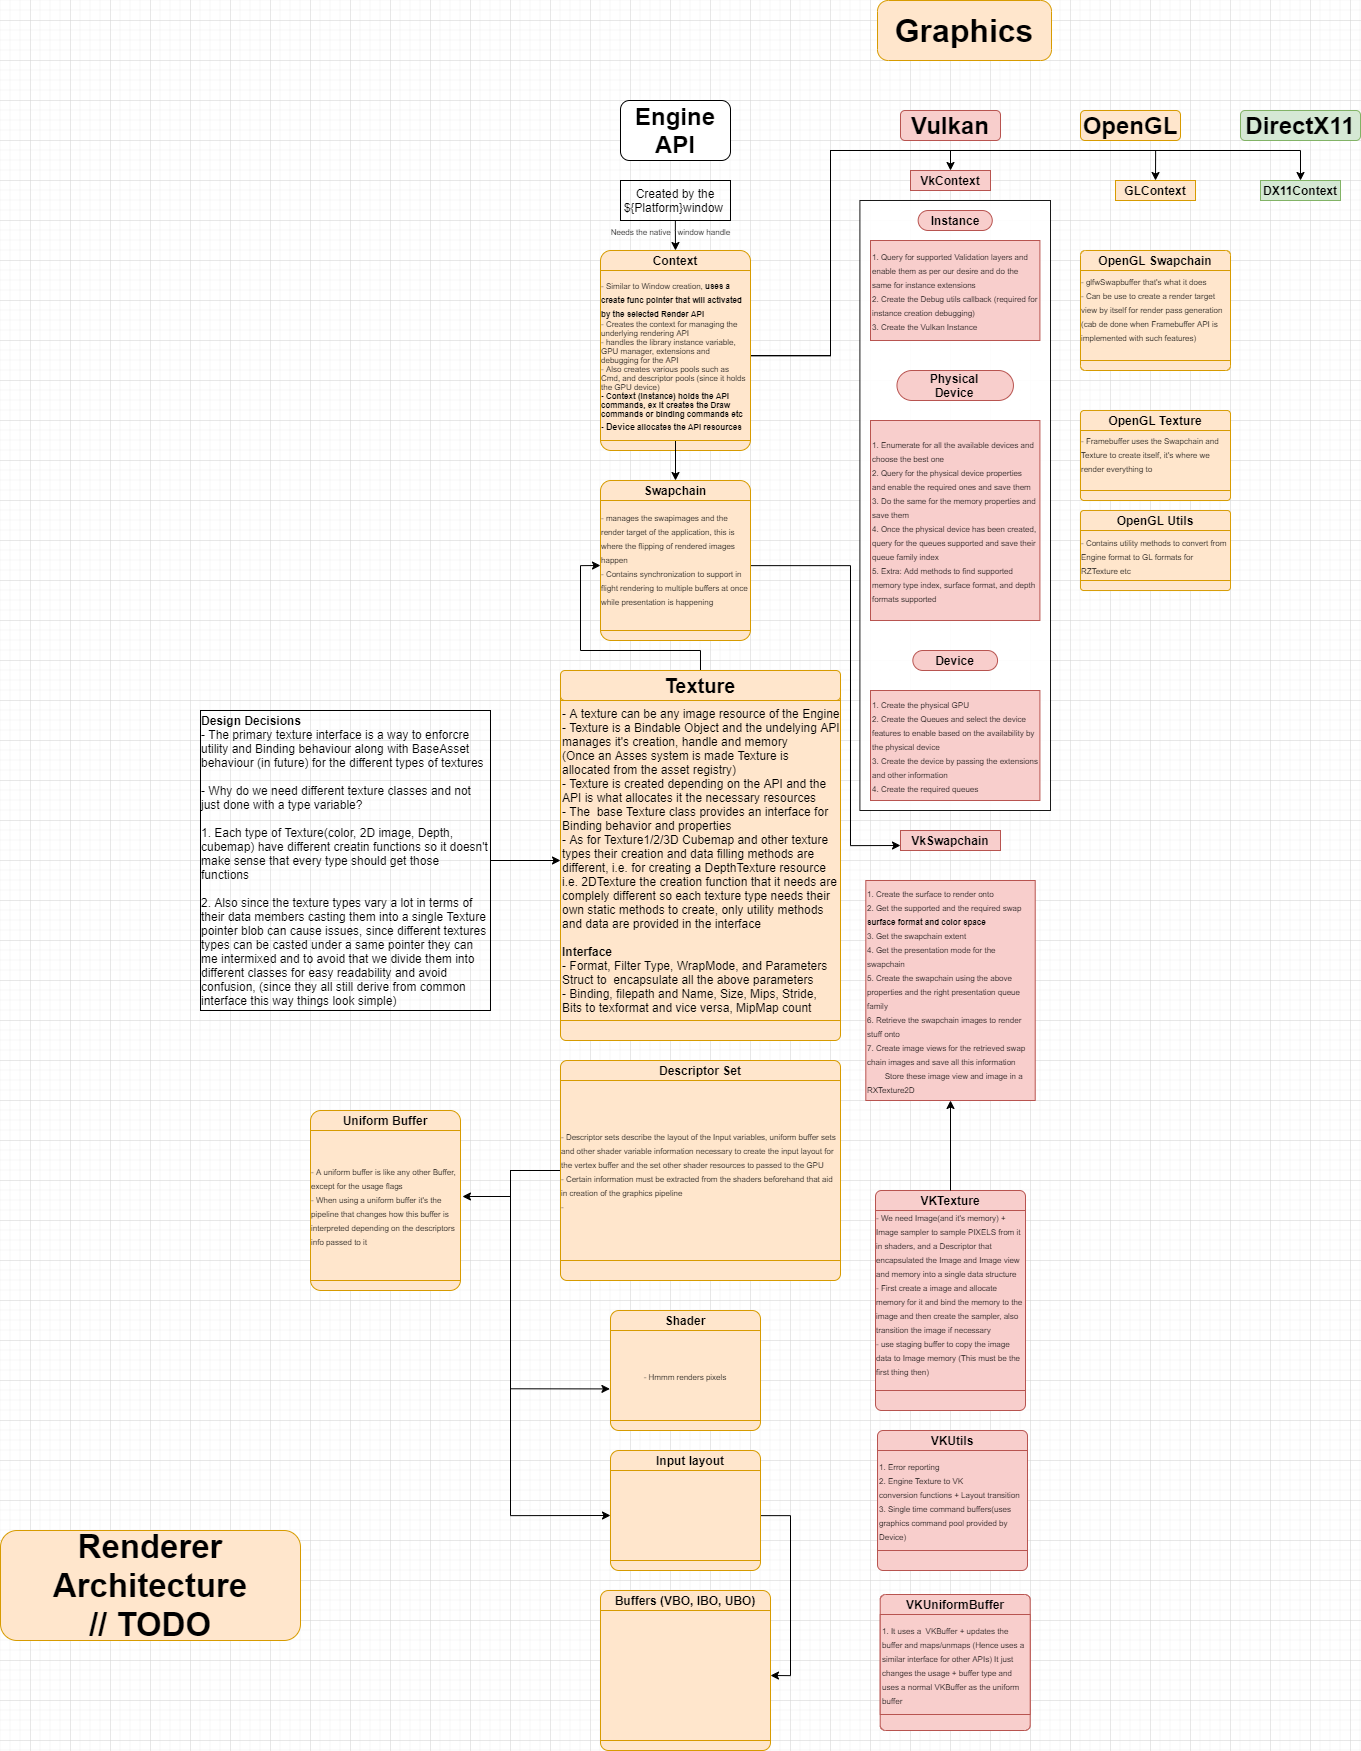
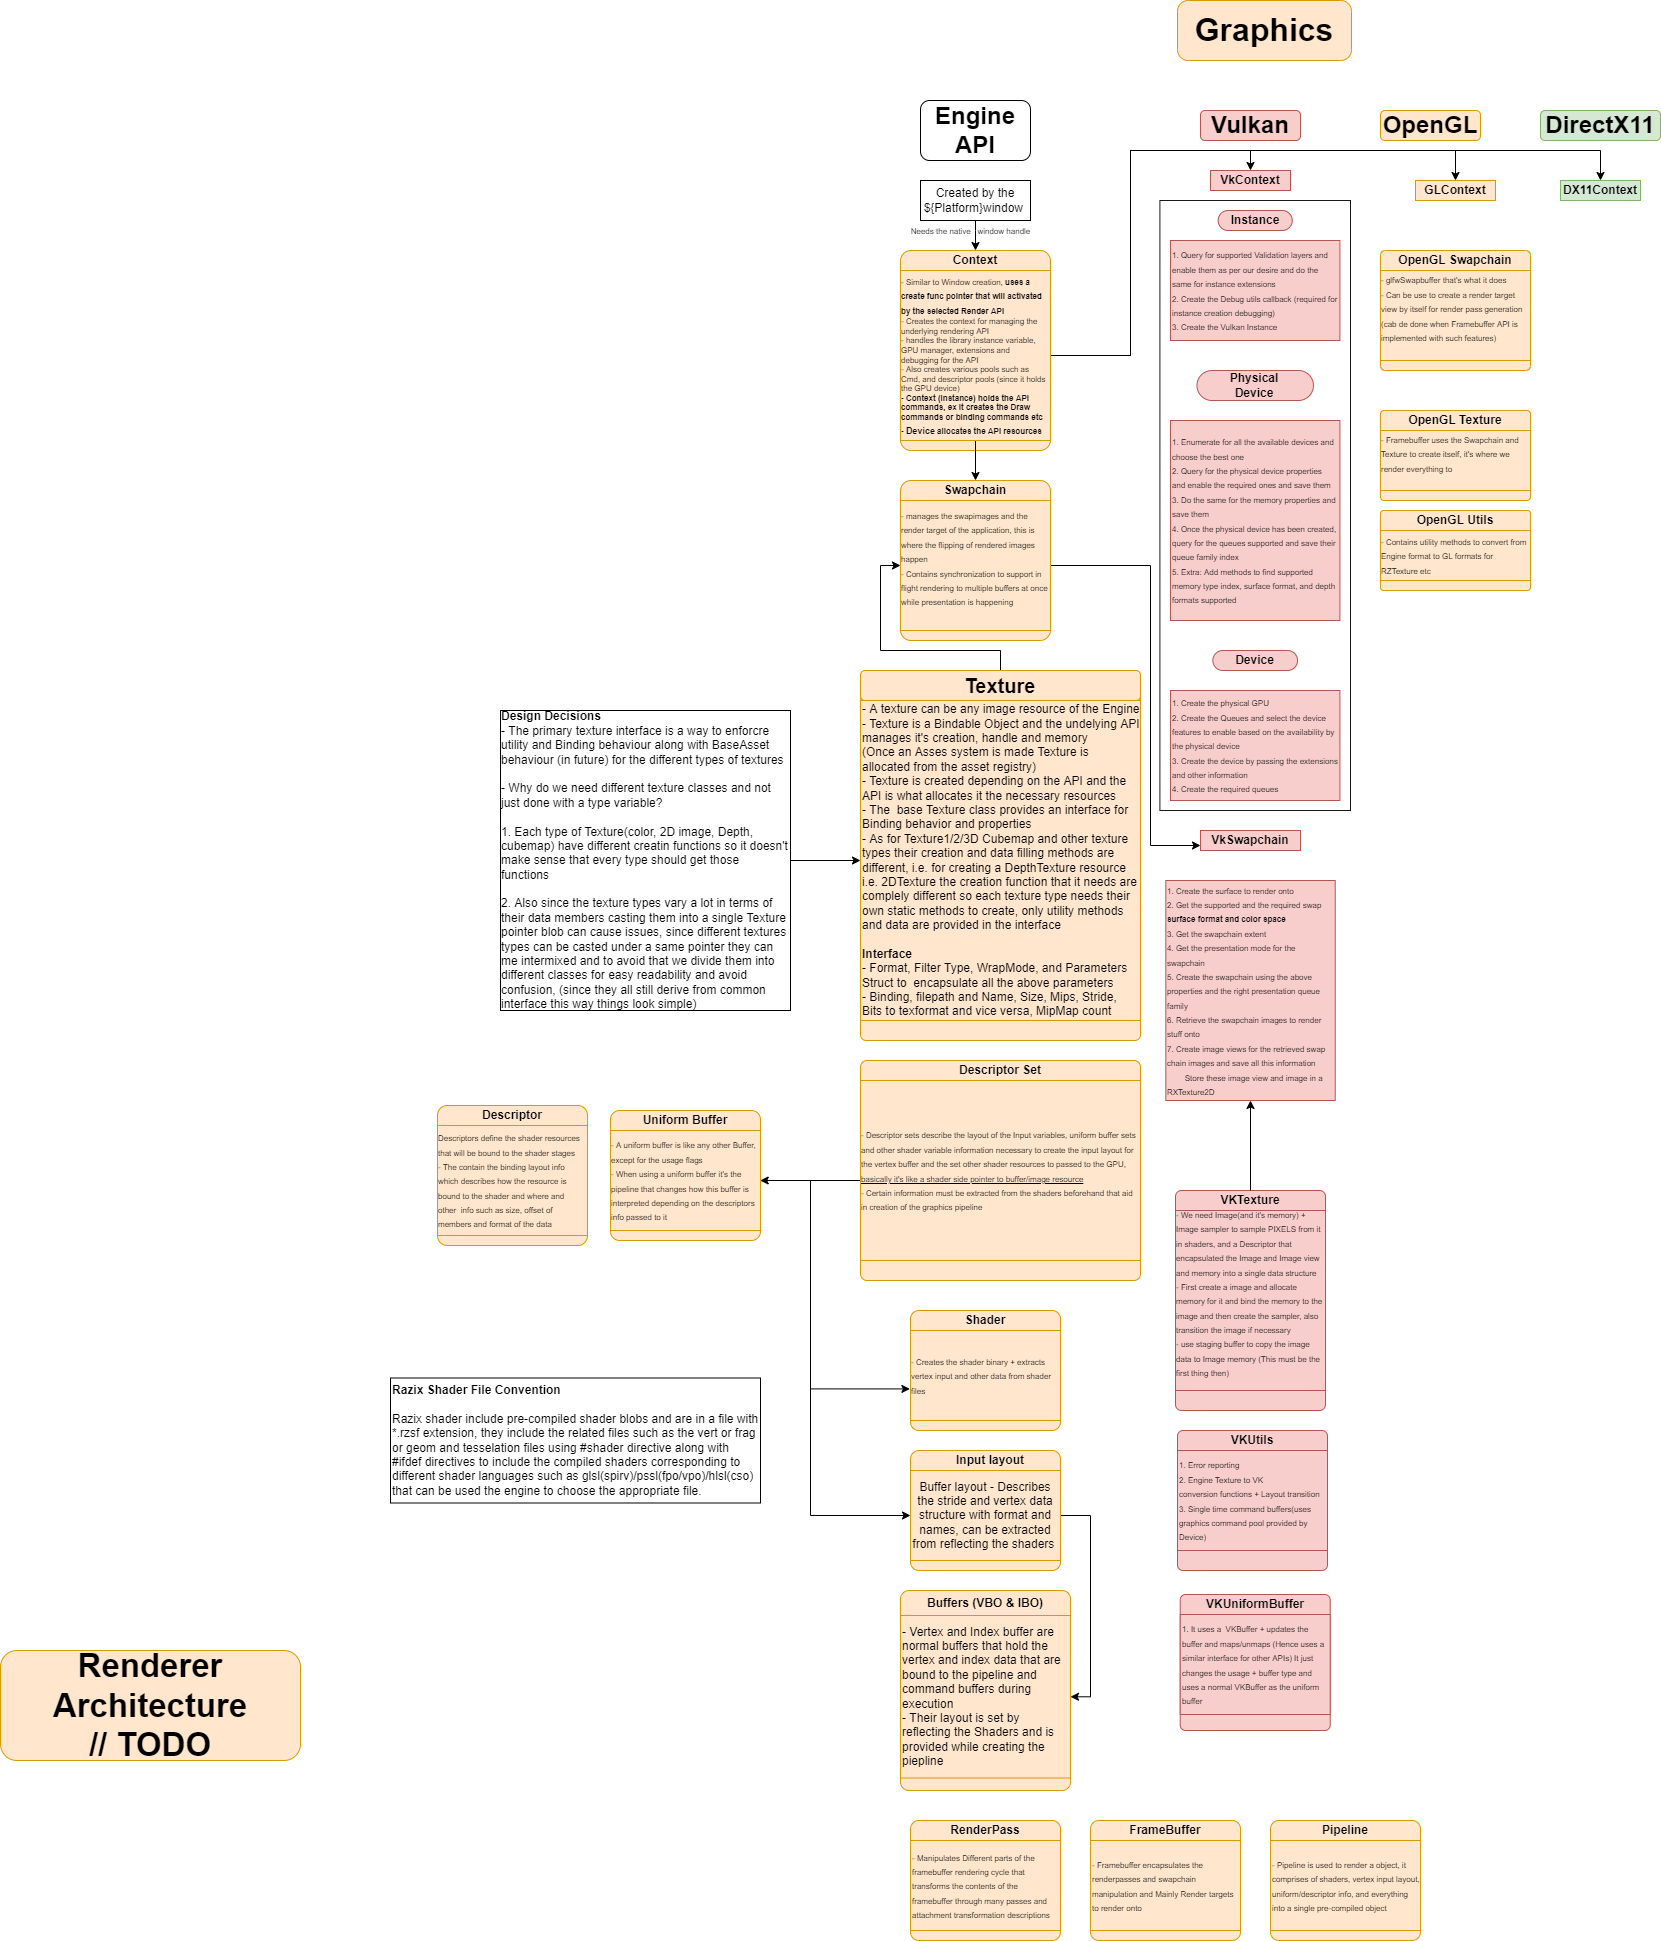
Raizx release V-0.20.0.Dev

diff --git a/Engine/src/Razix/Core/RazixVersion.h b/Engine/src/Razix/Core/RazixVersion.h
@@ -78,9 +78,9 @@ namespace Razix
         Date    m_ReleaseDate;      /* Current version release date             */
     };
 
-    /* The Engine's current Version and release status */
+    /* The Engine's current Version and release status [Date format : DD/MM/YYYY]*/
     ////-----------------------------------------------------------------------------------------------------------////
-    /**/ const Version RazixVersion = Version(0, 16, 0, Version::Stage::Development, Version::Date(15, 9, 2021));
+    /**/ const Version RazixVersion = Version(0, 20, 0, Version::Stage::Development, Version::Date(9, 1, 2022));
     ////-----------------------------------------------------------------------------------------------------------////
 
 }

diff --git a/Docs/ReleaseNotes.md b/Docs/ReleaseNotes.md
@@ -1,6 +1,11 @@
 # Razix Engine Release Notes
-## Version - 0.16.0 [Development] - 15/09/2021
-![](../Branding/DemoImages/ReleaseNotes/splashdemo.png)
-- Added Command line options for Engine application
-- Added *.razixproject file type registration for windows
-- Added splash screen to track Engine Ignition [WINDOWS ONLY}]
+
+## Version - 0.20.0 [Development] - 09/01/2022
+![](../Branding/DemoImages/ReleaseNotes/HelloTriangle.png)
+- Developed First draft of Engine Graphics API 
+- Created Razix Code Editor tool for editing Shaders and scripts files + SonyWWS ATF as vendor for tools and editor
+- Added Vulkan Renderer and Graphips API abstractions for it (such as Descriptor sets, render passes, textures, framebuffers, etc)
+- Created Razix Shader File (*.rzsf) convention for cross compiling shaders (First draft)
+- Impoved styleguide rules and enforcement of branding conventions to the entire code base
+- Improved build system for tools and shaders and Initialiszed RZSTL(custom stl implementation for razix engine)
+- Improved design consistency for entire engine and reduced cyclic dependency

diff --git a/Docs/CHANGELOG.md b/Docs/CHANGELOG.md
@@ -1,5 +1,14 @@
 # Razix Engine Changelog
 
+#### Version - 0.20.0 [Development] - 09/01/2022
+    - Developed First draft of Engine Graphics API 
+    - Created Razix Code Editor tool for editing Shaders and scripts files + SonyWWS ATF as vendor for tools and editor
+    - Added Vulkan Renderer and Graphips API abstractions for it (such as Descriptor sets, render passes, textures, framebuffers, etc)
+    - Created Razix Shader File (*.rzsf) convention for cross compiling shaders (First draft)
+    - Impoved styleguide rules and enforcement of branding conventions to the entire code base
+    - Improved build system for tools and shaders and Initialiszed RZSTL(custom stl implementation for razix engine)
+    - Improved design consistency for entire engine and reduced cyclic dependency
+
 #### Version - 0.16.0 [Development] - 15/09/2021
     - Added Command line options for Engine application
     - Added *.razixproject file type registration for windows
